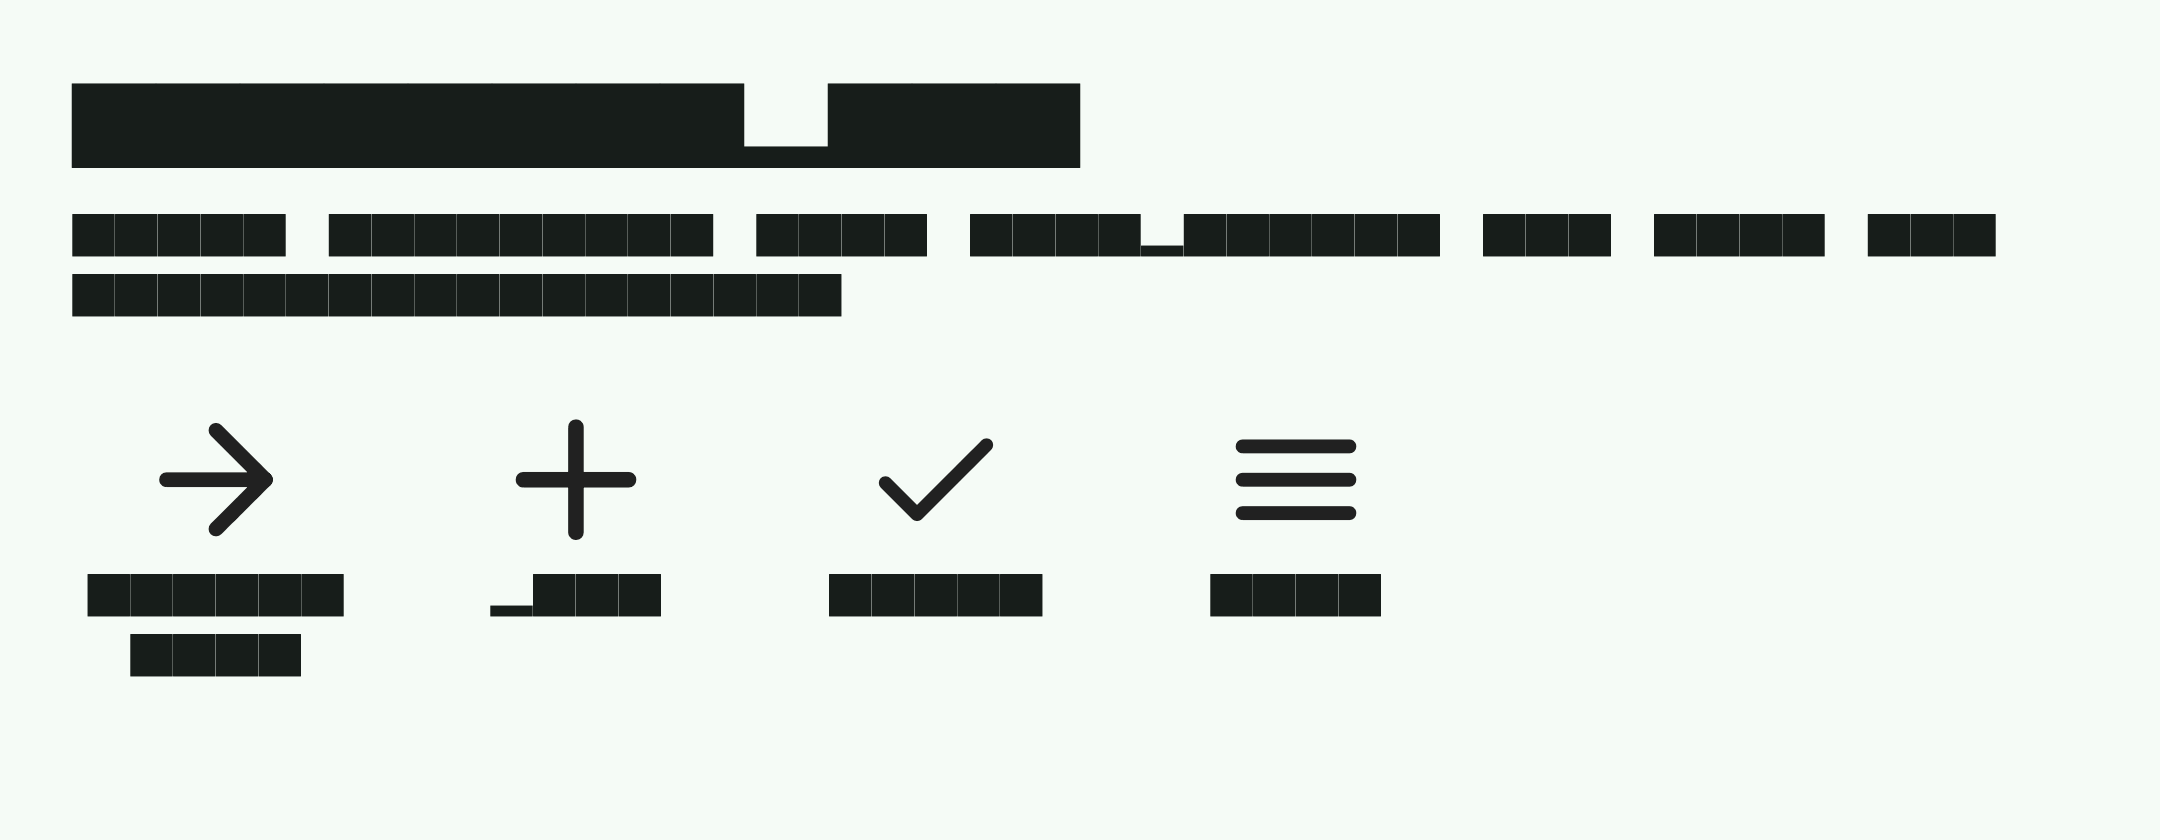
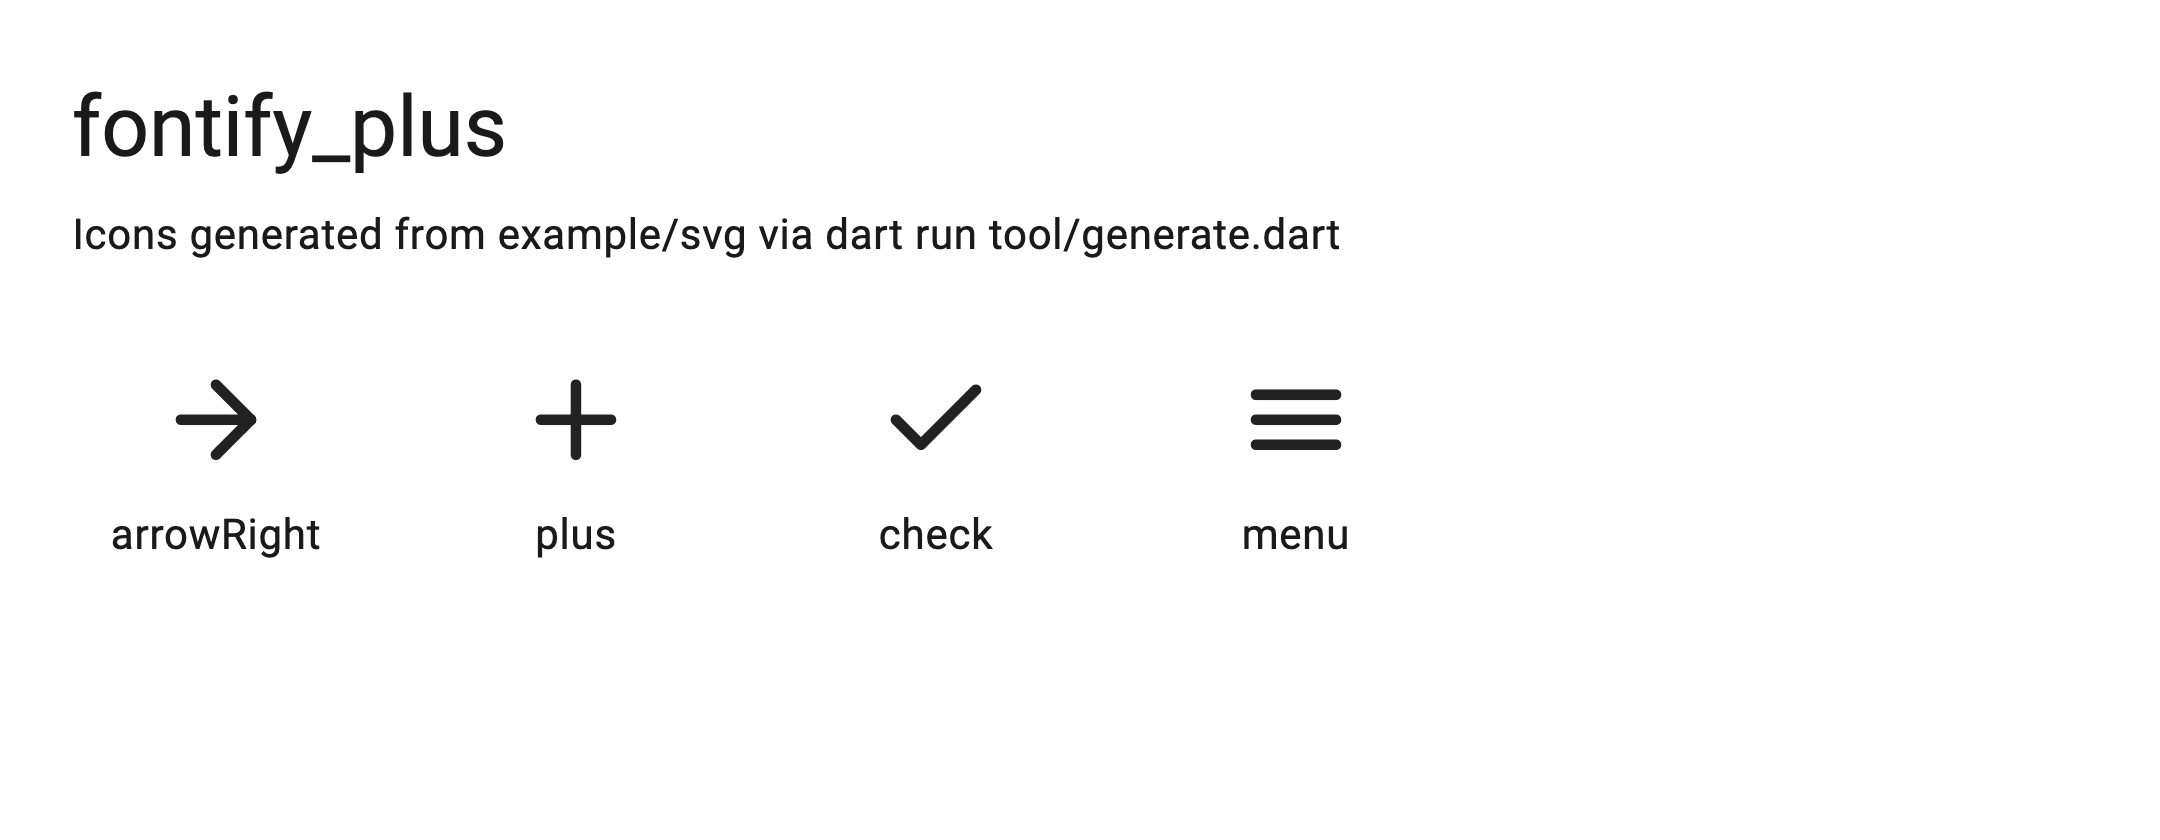
Fix gallery screenshot: white background and real text fonts.
Widget tests were rendering Ahem tofu on a green M3 surface tint.

diff --git a/example/test/widget_test.dart b/example/test/widget_test.dart
@@ -1,4 +1,5 @@
 import 'dart:io';
+import 'dart:typed_data';
 
 import 'package:flutter/material.dart';
 import 'package:flutter/services.dart';
@@ -11,9 +12,10 @@ void main() {
   TestWidgetsFlutterBinding.ensureInitialized();
 
   setUpAll(() async {
-    final data = await rootBundle.load('fonts/my_icons.otf');
-    final loader = FontLoader(MyIcons.iconFontFamily)..addFont(Future.value(data));
-    await loader.load();
+    // Widget tests default to Ahem (tofu blocks). Load Roboto from the SDK
+    // and the generated icon font for a readable pub.dev screenshot.
+    await _loadFileFont('Roboto', _robotoPath());
+    await _loadAssetFont(MyIcons.iconFontFamily, 'fonts/my_icons.otf');
   });
 
   testWidgets('write example gallery screenshot', (tester) async {
@@ -25,7 +27,14 @@ void main() {
       MaterialApp(
         debugShowCheckedModeBanner: false,
         theme: ThemeData(
-          colorScheme: ColorScheme.fromSeed(seedColor: const Color(0xFF1B4D3E)),
+          colorScheme: const ColorScheme.light(
+            primary: Color(0xFF1B4D3E),
+            onPrimary: Colors.white,
+            surface: Colors.white,
+            onSurface: Color(0xFF1A1A1A),
+          ),
+          scaffoldBackgroundColor: Colors.white,
+          fontFamily: 'Roboto',
           useMaterial3: true,
         ),
         home: const IconGalleryPage(),
@@ -43,4 +52,30 @@ void main() {
     dest.parent.createSync(recursive: true);
     golden.copySync(dest.path);
   });
+}
+
+String _robotoPath() {
+  final which = Process.runSync('which', ['flutter']);
+  if (which.exitCode != 0) {
+    throw StateError('flutter not on PATH: ${which.stderr}');
+  }
+  final flutterBin = File(
+    (which.stdout as String).trim(),
+  ).resolveSymbolicLinksSync();
+  // .../bin/flutter → SDK root
+  final sdk = File(flutterBin).parent.parent.path;
+  return '$sdk/bin/cache/artifacts/material_fonts/Roboto-Regular.ttf';
+}
+
+Future<void> _loadFileFont(String family, String path) async {
+  final bytes = File(path).readAsBytesSync();
+  final data = ByteData.sublistView(Uint8List.fromList(bytes));
+  final loader = FontLoader(family)..addFont(Future.value(data));
+  await loader.load();
+}
+
+Future<void> _loadAssetFont(String family, String assetPath) async {
+  final data = await rootBundle.load(assetPath);
+  final loader = FontLoader(family)..addFont(Future.value(data));
+  await loader.load();
 }

diff --git a/example/lib/main.dart b/example/lib/main.dart
@@ -13,7 +13,13 @@ class FontifyPlusExampleApp extends StatelessWidget {
     return MaterialApp(
       title: 'fontify_plus example',
       theme: ThemeData(
-        colorScheme: ColorScheme.fromSeed(seedColor: const Color(0xFF1B4D3E)),
+        colorScheme: const ColorScheme.light(
+          primary: Color(0xFF1B4D3E),
+          onPrimary: Colors.white,
+          surface: Colors.white,
+          onSurface: Color(0xFF1A1A1A),
+        ),
+        scaffoldBackgroundColor: Colors.white,
         useMaterial3: true,
       ),
       home: const IconGalleryPage(),
